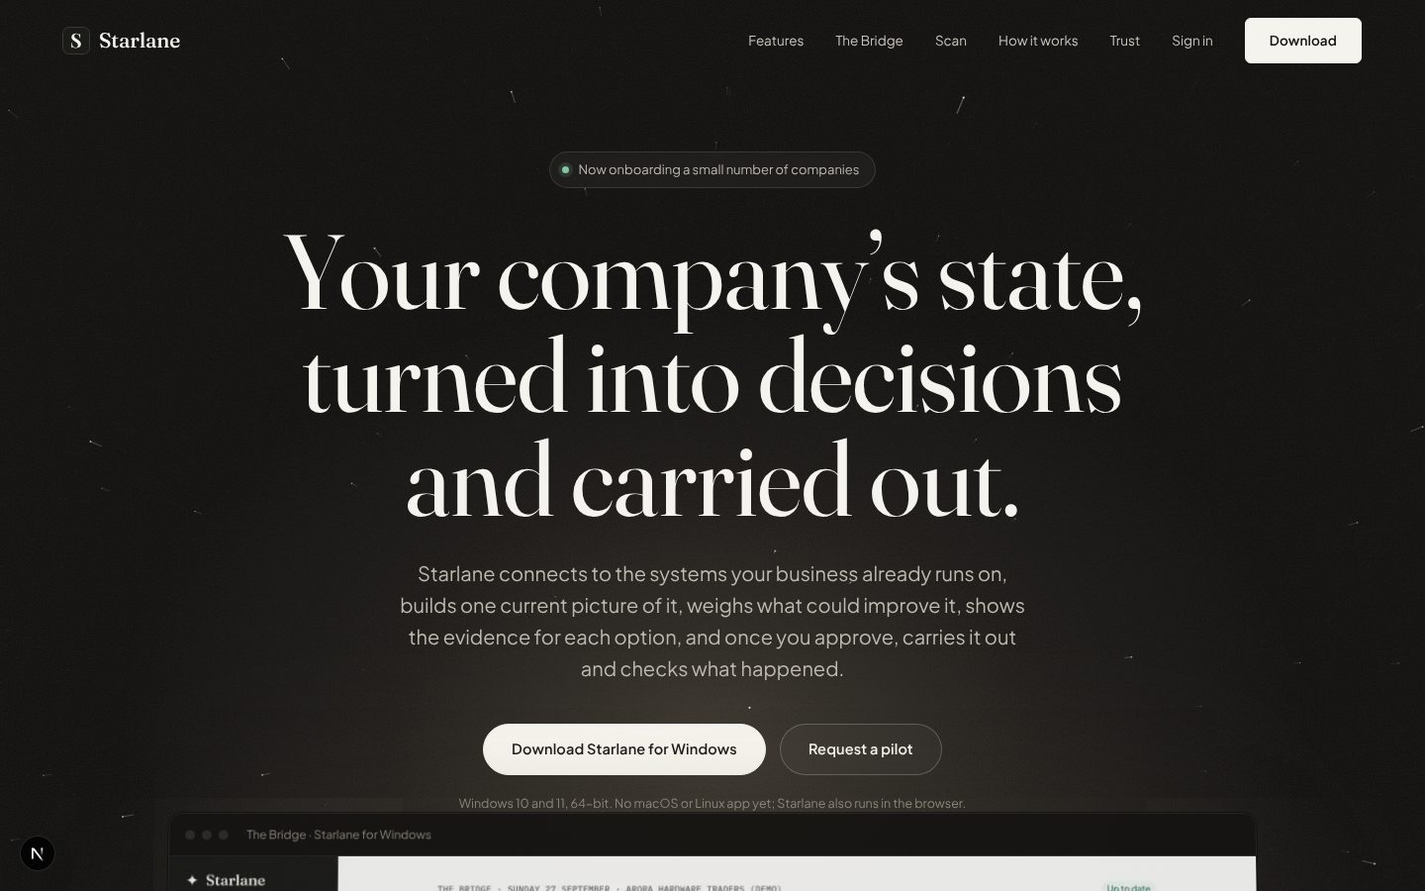
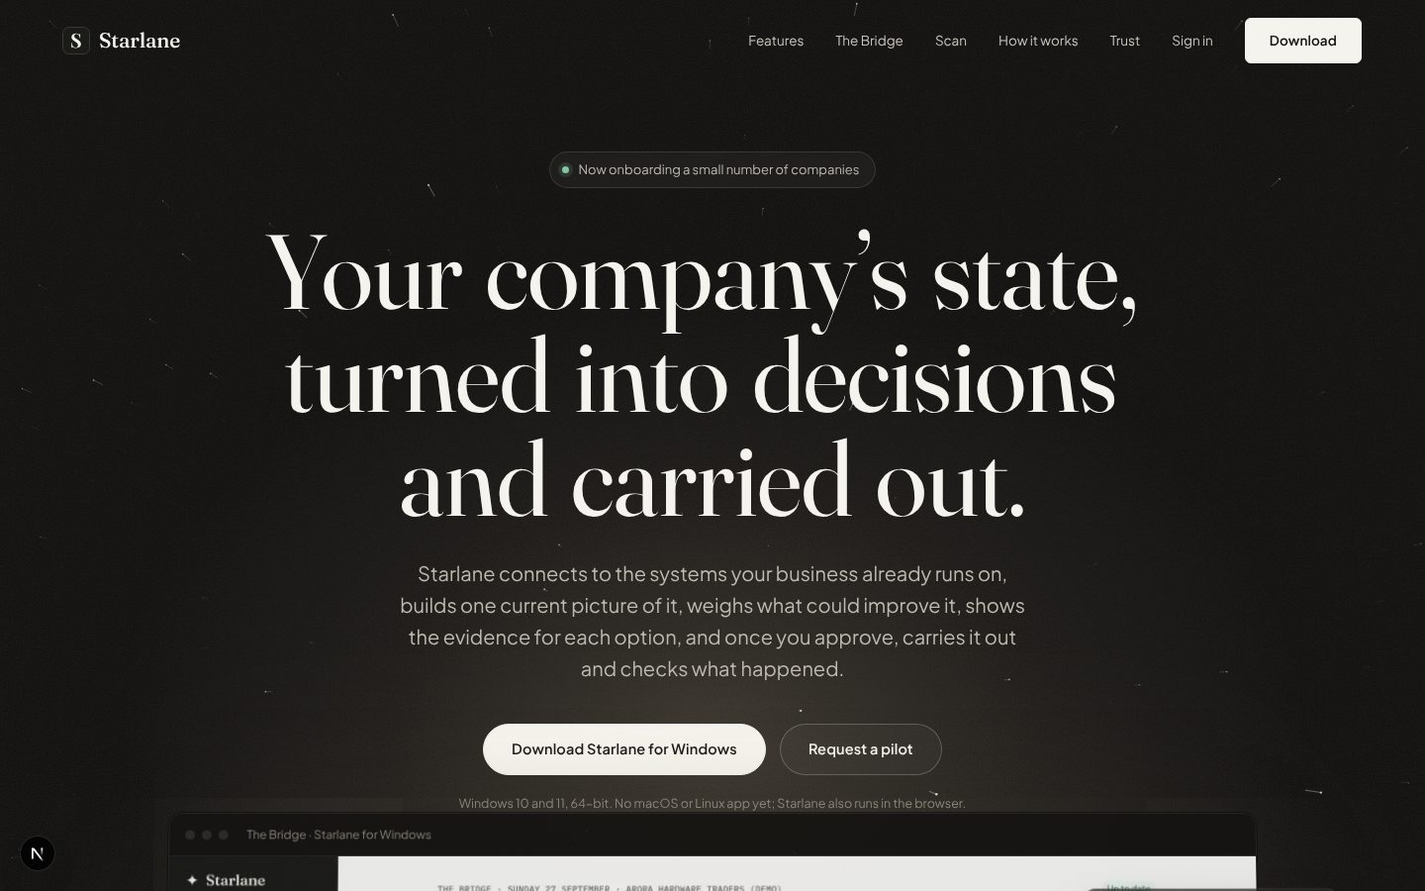
Landing: floating decision cards, word-by-word headline, business graph, FAQ
Adds glass cards over the hero screenshot (a decision waiting, a Watch alert,
an outcome checked against the books), a headline that rises in word by word,
a closing question that inks in as it scrolls, a 'one picture' section that
draws the demo company's books as an animated graph, a pointer spotlight on
the cards, and a questions section answered from existing product copy.

Claude-Session: https://claude.ai/code/session_01JbjFXTHGns6nadKYWs8caj

diff --git a/app/home.css b/app/home.css
@@ -109,7 +109,7 @@
   margin: 0 auto; max-width: 1180px; border-radius: 14px; overflow: hidden; background: #0b0b0a;
   border: 1px solid #ffffff1c;
   box-shadow: 0 0 0 1px #00000080, 0 60px 140px -40px #000, 0 0 220px -60px #f4dcb555;
-  transform-origin: 50% 0%;
+  transform-origin: 50% 0%; position: relative; z-index: 1;
 }
 .slh-shot-bar { display: flex; align-items: center; gap: 7px; padding: 12px 16px; border-bottom: 1px solid #ffffff12; background: #141311; }
 .slh-shot-bar span { width: 10px; height: 10px; border-radius: 50%; background: #2e2c29; }
@@ -268,6 +268,121 @@
 .sl-home.sl-js .slh-statement-lines [data-reveal]:nth-child(3) { transition-delay: .16s; }
 .sl-home.sl-js .slh-bento > :nth-child(3n+2), .sl-home.sl-js .slh-controls > :nth-child(2n) { transition-delay: .07s; }
 .sl-home.sl-js .slh-bento > :nth-child(3n), .sl-home.sl-js .slh-controls > :nth-child(3n) { transition-delay: .14s; }
+
+
+/* ── Second pass: motion and depth ────────────────────────────── */
+/* Headline: words rise out of a blur, one after another. */
+.slh-words span { display: inline-block; margin-right: 0.22em; animation: slh-word 1.1s var(--sl-ease) both; }
+.slh-words span:last-child { margin-right: 0; }
+@keyframes slh-word { from { opacity: 0; transform: translateY(0.32em); filter: blur(10px); } to { opacity: 1; transform: none; filter: none; } }
+.slh-hero .slh-pill, .slh-hero .slh-lede, .slh-hero .slh-ctas, .slh-hero .slh-fine { animation: slh-fade 1s var(--sl-ease) both; }
+.slh-hero .slh-lede { animation-delay: .7s; } .slh-hero .slh-ctas { animation-delay: .85s; } .slh-hero .slh-fine { animation-delay: 1s; }
+@keyframes slh-fade { from { opacity: 0; transform: translateY(12px); } to { opacity: 1; transform: none; } }
+
+/* Statement: the closing question inks in word by word as it scrolls past. */
+.slh-scrub { display: inline-block; margin-right: 0.24em; }
+@supports (animation-timeline: view()) {
+  .sl-home .slh-scrub { animation: slh-ink linear both; animation-timeline: view(); animation-range: cover 12% cover 42%; }
+}
+@keyframes slh-ink { from { color: var(--sl-line-2); } to { color: var(--sl-ink); } }
+
+/* Hero: glass cards floating over the screenshot. */
+.slh-shot-wrap { position: relative; }
+.slh-cards { position: absolute; inset: 0; z-index: 3; transform: translateZ(200px); pointer-events: none; max-width: 1300px; margin: 0 auto; }
+.slh-card {
+  position: absolute; width: 290px; padding: 14px 16px; border-radius: 14px;
+  background: rgba(24, 23, 21, 0.72); border: 1px solid #ffffff1f;
+  backdrop-filter: blur(18px) saturate(150%); -webkit-backdrop-filter: blur(18px) saturate(150%);
+  box-shadow: 0 30px 60px -20px #000000c0, inset 0 1px 0 #ffffff14; color: #F5F3EE;
+  animation: slh-card-in 1.2s var(--sl-ease) both, slh-bob 7s ease-in-out infinite;
+}
+.slh-card p { margin: 0; }
+.slh-card-k { display: flex; align-items: center; gap: 8px; font-size: 11px; letter-spacing: .1em; text-transform: uppercase; color: #8E8A82; }
+.slh-card-k i { width: 7px; height: 7px; border-radius: 50%; }
+.slh-card-k i.warn { background: #D9A85B; box-shadow: 0 0 10px #D9A85B; }
+.slh-card-k i.bad { background: #E07A6E; box-shadow: 0 0 10px #E07A6E; }
+.slh-card-k i.ok { background: #86C3A0; box-shadow: 0 0 10px #86C3A0; }
+.slh-card-t { font-family: var(--sl-serif); font-size: 17px; line-height: 1.25; margin-top: 8px !important; }
+.slh-card-s { font-size: 12px; color: #BEBAB1; margin-top: 4px !important; }
+.slh-card-row { display: flex; gap: 8px; margin-top: 12px; }
+.slh-card-btn { font-size: 12px; font-weight: 600; padding: 6px 14px; border-radius: 999px; background: #F5F3EE; color: #0F0E0D; }
+.slh-card-ghost { font-size: 12px; padding: 6px 12px; border-radius: 999px; border: 1px solid #ffffff26; color: #BEBAB1; }
+.slh-card-a { left: -10px; top: 22%; animation-delay: 1.1s, 1.1s; }
+.slh-card-b { right: -14px; top: 9%; width: 260px; animation-delay: 1.35s, 2.4s; }
+.slh-card-c { right: 3%; bottom: 14%; animation-delay: 1.6s, 3.6s; }
+@keyframes slh-card-in { from { opacity: 0; transform: translateY(24px) scale(.96); filter: blur(6px); } to { opacity: 1; transform: none; filter: none; } }
+@keyframes slh-bob { 0%, 100% { translate: 0 0; } 50% { translate: 0 -8px; } }
+
+/* One picture: the business graph. */
+.slh-graph { background: radial-gradient(60% 70% at 50% 60%, #1b1814 0%, #0F0E0D 70%); }
+.slg { position: relative; margin-top: 8px; border: 1px solid #ffffff10; border-radius: 20px; padding: clamp(12px, 2vw, 28px); background:
+  radial-gradient(circle at 20% 30%, #ffffff10 1px, transparent 1.5px) 0 0 / 46px 46px,
+  radial-gradient(circle at 70% 80%, #ffffff0b 1px, transparent 1.5px) 0 0 / 71px 71px, #0d0c0b; overflow: hidden; }
+.slg-svg { display: block; width: 100%; height: auto; overflow: visible; }
+.slg-orbit { fill: none; stroke: #ffffff0f; stroke-dasharray: 2 6; }
+.slg-edge { fill: none; stroke: #ffffff26; stroke-width: 1.2; }
+.slg-edge-dep { stroke-dasharray: 3 5; stroke: #ffffff2e; }
+.slg-flow { fill: none; stroke-width: 2.2; stroke-linecap: round; stroke-dasharray: 10 240; animation: slg-flow 3.6s linear infinite; }
+.slg-flow-in { stroke: #f4dcb5; filter: drop-shadow(0 0 4px #f4dcb5); }
+.slg-flow-out { stroke: #F5F3EE; opacity: .6; animation-duration: 4.4s; }
+@keyframes slg-flow { from { stroke-dashoffset: 250; } to { stroke-dashoffset: 0; } }
+.slg-core-ring { fill: none; stroke: #f4dcb566; stroke-width: 1; animation: slg-breathe 4s ease-in-out infinite; transform-box: fill-box; transform-origin: center; }
+.slg-core-dot { fill: #F5F3EE; }
+.slg-core-t { font-family: var(--sl-serif); font-size: 12.5px; fill: #0F0E0D; }
+.slg-core-s { font-size: 8.5px; fill: #46443F; letter-spacing: .08em; text-transform: uppercase; }
+@keyframes slg-breathe { 50% { transform: scale(1.12); opacity: .4; } }
+.slg-t { font-family: var(--sl-serif); font-size: 16px; fill: #F5F3EE; }
+.slg-sub { font-family: var(--sl-mono); font-size: 11px; fill: #8E8A82; }
+.slg-dot { fill: #F5F3EE; stroke: #0d0c0b; stroke-width: 3; }
+.slg-source .slg-dot { fill: #f4dcb5; }
+.slg-supplier .slg-dot, .slg-signal .slg-dot { fill: #0d0c0b; stroke: #BEBAB1; stroke-width: 1.5; }
+.slg-warn .slg-dot { fill: #D9A85B; }
+.slg-bad .slg-dot { fill: #E07A6E; }
+.slg-pulse { fill: #E07A6E; opacity: .35; animation: slg-pulse 2.4s ease-out infinite; transform-box: fill-box; transform-origin: center; }
+@keyframes slg-pulse { from { transform: scale(.5); opacity: .55; } to { transform: scale(2.2); opacity: 0; } }
+.slg-swipe { display: none; margin: 4px 0 0; font-size: 12px; color: #8E8A82; position: sticky; left: 0; }
+.slg-legend { position: sticky; left: 0; list-style: none; margin: 8px 0 0; padding: 0; display: flex; flex-wrap: wrap; gap: 8px 22px; font-size: 12px; color: #8E8A82; }
+.slg-legend li { display: inline-flex; align-items: center; gap: 8px; }
+.slg-legend i { width: 8px; height: 8px; border-radius: 50%; }
+.slg-legend i.src { background: #f4dcb5; } .slg-legend i.warn { background: #D9A85B; } .slg-legend i.bad { background: #E07A6E; }
+.slg-legend i.dep { border: 1.5px solid #BEBAB1; }
+
+/* Pointer spotlight on cards. */
+.slh-b-link, .slh-c, .slh-control { position: relative; }
+.slh-b-link::after, .slh-c::after, .slh-control::after {
+  content: ""; position: absolute; inset: 0; border-radius: inherit; pointer-events: none; opacity: 0; transition: opacity .3s ease;
+  background: radial-gradient(420px circle at var(--mx, 50%) var(--my, 50%), #0f0e0d0d, transparent 45%);
+}
+.slh-control::after { background: radial-gradient(360px circle at var(--mx, 50%) var(--my, 50%), #f4dcb51f, transparent 50%); }
+.slh-b-link:hover::after, .slh-c:hover::after, .slh-control:hover::after { opacity: 1; }
+.slh-control { transition: border-color .25s ease; }
+.slh-control:hover { border-color: #ffffff2e; }
+
+/* Questions. */
+.slh-faq-grid { display: grid; grid-template-columns: minmax(0, 0.8fr) minmax(0, 1.2fr); gap: clamp(32px, 6vw, 96px); align-items: start; }
+.slh-faq-list { border-top: 1px solid var(--sl-line); }
+.slh-qa { border-bottom: 1px solid var(--sl-line); }
+.slh-qa summary { list-style: none; cursor: pointer; display: flex; justify-content: space-between; align-items: center; gap: 24px; padding: 22px 0; font-family: var(--sl-serif); font-size: clamp(18px, 1.6vw, 22px); color: var(--sl-ink); min-height: 44px; }
+.slh-qa summary::-webkit-details-marker { display: none; }
+.slh-qa summary i { position: relative; width: 14px; height: 14px; flex-shrink: 0; }
+.slh-qa summary i::before, .slh-qa summary i::after { content: ""; position: absolute; left: 0; right: 0; top: 50%; height: 1.5px; margin-top: -0.75px; background: var(--sl-ink); transition: transform .35s var(--sl-ease); }
+.slh-qa summary i::after { transform: rotate(90deg); }
+.slh-qa[open] summary i::after { transform: rotate(0deg); }
+.slh-qa .sl-p { margin: -6px 0 24px; max-width: 640px; animation: slh-fade .5s var(--sl-ease); }
+
+@media (max-width: 1080px) {
+  .slh-card-a { left: 2%; } .slh-card-b { right: 2%; }
+}
+@media (max-width: 860px) {
+  .slh-cards { display: none; }
+  .slh-faq-grid { grid-template-columns: minmax(0, 1fr); }
+  .slg { margin-left: calc(var(--sl-gutter) * -1); margin-right: calc(var(--sl-gutter) * -1); border-radius: 0; border-left: 0; border-right: 0; overflow-x: auto; }
+  .slg-svg { min-width: 760px; }
+  .slg-swipe { display: block; }
+}
+@media (prefers-reduced-motion: reduce) {
+  .sl-home .slh-scrub { animation: none !important; color: var(--sl-ink); }
+}
 
 /* ── Responsive ───────────────────────────────────────────────── */
 @media (max-width: 1080px) {

diff --git a/app/page.tsx b/app/page.tsx
@@ -10,6 +10,8 @@ import { AskDemo } from "@/components/marketing/landing/AskDemo";
 import { HowItThinks } from "@/components/marketing/landing/HowItThinks";
 import { StarField } from "@/components/marketing/landing/StarField";
 import { Reveal } from "@/components/marketing/landing/Reveal";
+import { HeroCards } from "@/components/marketing/landing/HeroCards";
+import { BusinessGraph } from "@/components/marketing/landing/BusinessGraph";
 import { BridgeViz, WatchViz, MissionsViz, SimulateViz, MemoryViz, PreparedViz } from "@/components/marketing/landing/SurfaceVisuals";
 
 // Starlane — public landing. A dark, cinematic frame (hero, decision, Scan,
@@ -74,6 +76,18 @@ const VIZ: Record<string, { el: React.ReactNode; span: string }> = {
   Prepared: { el: <PreparedViz />, span: "slh-b-full" },
 };
 
+const HEADLINE = "Your company’s state, turned into decisions and carried out.".split(" ");
+const SCRUB = "None of them answers the question an owner faces every morning: what should we do today, and why?".split(" ");
+
+const FAQ = [
+  { q: "Will Starlane message my customers on its own?", a: "No. External messages are off by default and stay off until they are explicitly enabled. Even then, every reminder waits for a person to approve it, the text is shown in full before you do, and each approved action runs at most once." },
+  { q: "What does it need from TallyPrime?", a: "A small bridge program on the computer that runs Tally reads vouchers and stock through Tally’s local export port and sends them to Starlane. It is read-only, paired with a one-time code, and you can revoke it from Starlane at any time." },
+  { q: "We don’t use Tally. Can we still use Starlane?", a: "Yes, if your system can export invoices as CSV or Excel. Identical files are recognised and never imported twice. Connections to QuickBooks, Zoho Books, Xero and others through their official APIs are not built yet, so tell us what you use when you apply." },
+  { q: "Can it change my books?", a: "No. Starlane never marks a payment received, changes an amount or deletes records on its own, and Scan cannot change records at all. It reads your books and checks them again to see what actually happened after an action." },
+  { q: "Is there a Mac app?", a: "Not yet. The desktop app runs on Windows 10 and 11, 64-bit, and Starlane also runs in the browser." },
+  { q: "How do we get started?", a: "Starlane is onboarding a small number of companies at a time, starting with businesses that run on TallyPrime or can export their books. Request a pilot and you will see straight away whether your systems are supported." },
+];
+
 const SOURCES = ["TallyPrime", "CSV exports", "Excel workbooks", "Bank statements", "ECB reference rates", "USGS earthquake feed", "WhatsApp drafts, sent only on approval", "Purchase history", "Stock and products"];
 
 const PROMISES = [
@@ -105,7 +119,9 @@ export default function LandingPage() {
           </div>
           <div className="sl-wrap slh-hero-copy">
             <span className="slh-pill"><i />Now onboarding a small number of companies</span>
-            <h1 className="slh-display">Your company’s state, turned into decisions and carried out.</h1>
+            <h1 className="slh-display slh-words" aria-label="Your company’s state, turned into decisions and carried out.">
+              {HEADLINE.map((w, i) => <span key={i} aria-hidden style={{ animationDelay: `${0.12 + i * 0.07}s` }}>{w}</span>)}
+            </h1>
             <p className="slh-lede">
               Starlane connects to the systems your business already runs on, builds one current picture of it, weighs
               what could improve it, shows the evidence for each option, and once you approve, carries it out and checks
@@ -123,6 +139,7 @@ export default function LandingPage() {
               <Image src="/product/bridge-desktop.webp" width={2880} height={1800} priority sizes="(max-width: 767px) 100vw, 1180px"
                 alt="The Bridge in the Starlane desktop app for a fictional demo company: what it is owed and how much is overdue, two reminders waiting for approval, Watch alerts for invoices slipping past 30 and 90 days, two collection missions with progress, receivables by overdue band and who owes the most." />
             </figure>
+            <HeroCards />
             <p className="slh-shot-cap">Real product view, on a fictional demo company’s books. Every figure opens to the invoices behind it.</p>
           </div>
         </header>
@@ -146,8 +163,23 @@ export default function LandingPage() {
               <p data-reveal><span>Dashboards</span> show what already happened.</p>
               <p data-reveal><span>Reports</span> arrive after it mattered.</p>
               <p data-reveal><span>Automations</span> do exactly what they were told, whether or not it still makes sense.</p>
-              <p data-reveal className="slh-statement-last">None of them answers the question an owner faces every morning: what should we do today, and why?</p>
+              <p className="slh-statement-last">{SCRUB.map((w, i) => <span key={i} className="slh-scrub">{w}</span>)}</p>
             </div>
+          </div>
+        </section>
+
+        {/* 3b — One picture of the business */}
+        <section className="sl-dark slh-section slh-graph" aria-labelledby="graph-h">
+          <div className="sl-wrap">
+            <div className="sl-split-head" data-reveal>
+              <div>
+                <p className="sl-eyebrow">One picture</p>
+                <h2 id="graph-h" className="slh-h2">Every row in your books becomes one living picture of the business.</h2>
+              </div>
+              <p className="sl-p">Vouchers become invoices, payments and stock movements. Customers, suppliers and products are linked by what actually happened between them, and every row keeps where it came from.</p>
+            </div>
+            <div data-reveal><BusinessGraph /></div>
+            <p className="sl-product-caption">Illustration on the fictional demo company from the product view above.</p>
           </div>
         </section>
 
@@ -267,6 +299,24 @@ export default function LandingPage() {
             <div className="slh-controls">
               {CONTROLS.map((r) => (
                 <div key={r.l} className="slh-control" data-reveal><h3 className="sl-h3">{r.l}</h3><p className="sl-p">{r.d}</p></div>
+              ))}
+            </div>
+          </div>
+        </section>
+
+        {/* 9b — Questions */}
+        <section id="faq" className="sl-section slh-faq" aria-labelledby="faq-h">
+          <div className="sl-wrap slh-faq-grid">
+            <div data-reveal>
+              <p className="sl-eyebrow">Questions</p>
+              <h2 id="faq-h" className="slh-h2">What owners ask before they connect their books.</h2>
+            </div>
+            <div className="slh-faq-list" data-reveal>
+              {FAQ.map((f) => (
+                <details key={f.q} className="slh-qa">
+                  <summary><span>{f.q}</span><i aria-hidden /></summary>
+                  <p className="sl-p">{f.a}</p>
+                </details>
               ))}
             </div>
           </div>

diff --git a/components/marketing/landing/BusinessGraph.tsx b/components/marketing/landing/BusinessGraph.tsx
@@ -1,0 +1,86 @@
+// "One picture of your business": the demo company's books drawn as a graph.
+// Sources feed the picture from the left; customers it is owed by sit on the
+// right, coloured by how overdue they are; the supplier and stock it depends
+// on sit above and below. Data visibly flows in along the source edges.
+// Same fictional demo company and figures as the product screenshot.
+
+type Node = { id: string; x: number; y: number; label: string; sub?: string; kind: "core" | "source" | "customer" | "supplier" | "signal"; tone?: "ok" | "warn" | "bad" };
+
+const NODES: Node[] = [
+  { id: "core", x: 500, y: 290, label: "Your business", sub: "Arora Hardware Traders · demo", kind: "core" },
+  { id: "tally", x: 120, y: 150, label: "TallyPrime", sub: "vouchers, stock", kind: "source" },
+  { id: "bank", x: 95, y: 300, label: "Bank statement", sub: "movements", kind: "source" },
+  { id: "csv", x: 140, y: 450, label: "CSV / Excel", sub: "invoice exports", kind: "source" },
+  { id: "mehta", x: 820, y: 105, label: "Mehta Hardware", sub: "₹1,28,500 · 45 days", kind: "customer", tone: "bad" },
+  { id: "sharma", x: 895, y: 225, label: "Sharma Builders", sub: "₹86,000 · 38 days", kind: "customer", tone: "bad" },
+  { id: "rao", x: 900, y: 355, label: "Rao Steel", sub: "₹74,000 · 19 days", kind: "customer", tone: "warn" },
+  { id: "joshi", x: 830, y: 470, label: "Joshi Tiles", sub: "₹23,500 · 96 days", kind: "customer", tone: "bad" },
+  { id: "bansal", x: 690, y: 525, label: "Bansal Paints", sub: "₹52,000 · 6 days", kind: "customer", tone: "warn" },
+  { id: "metro", x: 430, y: 70, label: "Metro Wholesale", sub: "supplier", kind: "supplier" },
+  { id: "stock", x: 330, y: 520, label: "Products and stock", sub: "coverage by item", kind: "supplier" },
+  { id: "ecb", x: 640, y: 40, label: "ECB rates", sub: "public feed", kind: "signal" },
+];
+
+const EDGES: Array<[string, string, "in" | "out" | "dep"]> = [
+  ["tally", "core", "in"], ["bank", "core", "in"], ["csv", "core", "in"],
+  ["core", "mehta", "out"], ["core", "sharma", "out"], ["core", "rao", "out"], ["core", "joshi", "out"], ["core", "bansal", "out"],
+  ["core", "metro", "dep"], ["metro", "stock", "dep"], ["core", "stock", "dep"], ["ecb", "metro", "dep"],
+];
+
+const at = (id: string) => NODES.find((n) => n.id === id)!;
+
+export function BusinessGraph() {
+  return (
+    <div className="slg" role="img" aria-label="Illustration: the demo company's books drawn as one picture. TallyPrime, bank statements and CSV exports feed it; five customers who owe it money are coloured by how overdue they are; a supplier, its stock and an exchange-rate feed it depends on are linked in.">
+      <svg viewBox="-70 0 1150 580" className="slg-svg" aria-hidden>
+        <defs>
+          <radialGradient id="slg-core" cx="50%" cy="50%" r="50%">
+            <stop offset="0%" stopColor="#f4dcb5" stopOpacity=".55" />
+            <stop offset="100%" stopColor="#f4dcb5" stopOpacity="0" />
+          </radialGradient>
+        </defs>
+        <circle cx="500" cy="290" r="150" fill="url(#slg-core)" />
+        <circle cx="500" cy="290" r="210" className="slg-orbit" />
+        <circle cx="500" cy="290" r="300" className="slg-orbit" />
+        {EDGES.map(([a, b, k], i) => {
+          const A = at(a), B = at(b);
+          const mx = (A.x + B.x) / 2, my = (A.y + B.y) / 2 - (k === "dep" ? 0 : 24);
+          const d = `M${A.x} ${A.y} Q${mx} ${my} ${B.x} ${B.y}`;
+          return (
+            <g key={i}>
+              <path d={d} className={`slg-edge slg-edge-${k}`} />
+              {k !== "dep" && <path d={d} className={`slg-flow slg-flow-${k}`} style={{ animationDelay: `${(i % 5) * -0.7}s` }} />}
+            </g>
+          );
+        })}
+        {NODES.map((n) => (
+          <g key={n.id} transform={`translate(${n.x} ${n.y})`} className={`slg-node slg-${n.kind}${n.tone ? ` slg-${n.tone}` : ""}`}>
+            {n.kind === "core" ? (
+              <>
+                <circle r="60" className="slg-core-ring" />
+                <circle r="48" className="slg-core-dot" />
+                <text y="-2" textAnchor="middle" className="slg-core-t">{n.label}</text>
+                <text y="16" textAnchor="middle" className="slg-core-s">live picture</text>
+                <text y="84" textAnchor="middle" className="slg-sub">{n.sub}</text>
+              </>
+            ) : (
+              <>
+                {n.tone === "bad" && <circle r="13" className="slg-pulse" />}
+                <circle r="7" className="slg-dot" />
+                <text x={n.x > 500 ? 16 : -16} y="-2" textAnchor={n.x > 500 ? "start" : "end"} className="slg-t">{n.label}</text>
+                {n.sub && <text x={n.x > 500 ? 16 : -16} y="15" textAnchor={n.x > 500 ? "start" : "end"} className="slg-sub">{n.sub}</text>}
+              </>
+            )}
+          </g>
+        ))}
+      </svg>
+      <p className="slg-swipe" aria-hidden>Swipe to see the whole picture</p>
+      <ul className="slg-legend" aria-hidden>
+        <li><i className="src" />Sources</li>
+        <li><i className="warn" />Overdue under 30 days</li>
+        <li><i className="bad" />Overdue 30 days or more</li>
+        <li><i className="dep" />Depends on</li>
+      </ul>
+    </div>
+  );
+}

diff --git a/components/marketing/landing/Reveal.tsx b/components/marketing/landing/Reveal.tsx
@@ -4,11 +4,15 @@ import { useEffect } from "react";
 // Scroll reveal for the landing page. Everything marked data-reveal is fully
 // visible without JavaScript; only once this runs does the page opt in (the
 // "sl-js" class) to fading each block up as it enters the viewport. Skipped
-// entirely with prefers-reduced-motion.
+// entirely with prefers-reduced-motion. Also drives the pointer spotlight on
+// the landing cards.
 export function Reveal() {
   useEffect(() => {
     const root = document.querySelector<HTMLElement>(".sl-home");
-    if (!root || typeof IntersectionObserver === "undefined") return;
+    if (!root) return;
+    // On narrow screens the business graph scrolls sideways; start it centred.
+    root.querySelectorAll<HTMLElement>(".slg").forEach((g) => { g.scrollLeft = (g.scrollWidth - g.clientWidth) / 2; });
+    if (typeof IntersectionObserver === "undefined") return;
     if (window.matchMedia("(prefers-reduced-motion: reduce)").matches) return;
     const els = Array.from(root.querySelectorAll<HTMLElement>("[data-reveal]"));
     const io = new IntersectionObserver((entries) => {
@@ -22,7 +26,16 @@ export function Reveal() {
       else io.observe(el);
     }
     root.classList.add("sl-js");
-    return () => io.disconnect();
+    // Cards light up under the pointer.
+    const spot = (e: PointerEvent) => {
+      const card = (e.target as Element | null)?.closest<HTMLElement>(".slh-b-link, .slh-c, .slh-control");
+      if (!card) return;
+      const r = card.getBoundingClientRect();
+      card.style.setProperty("--mx", `${e.clientX - r.left}px`);
+      card.style.setProperty("--my", `${e.clientY - r.top}px`);
+    };
+    root.addEventListener("pointermove", spot, { passive: true });
+    return () => { io.disconnect(); root.removeEventListener("pointermove", spot); };
   }, []);
   return null;
 }

diff --git a/components/marketing/landing/HeroCards.tsx b/components/marketing/landing/HeroCards.tsx
@@ -1,0 +1,28 @@
+// Glass cards that float over the hero screenshot: the three moments the
+// product is built around — a decision waiting for a person, a problem raised,
+// and an outcome checked against the books. Same fictional demo company and
+// figures as the screenshot underneath. Decorative: the screenshot's alt text
+// and the page copy already say all of this.
+
+export function HeroCards() {
+  return (
+    <div className="slh-cards" aria-hidden>
+      <div className="slh-card slh-card-a">
+        <p className="slh-card-k"><i className="warn" />Needs you</p>
+        <p className="slh-card-t">Firm reminder to Mehta Hardware</p>
+        <p className="slh-card-s"><span className="sl-num">₹1,28,500</span> · 45 days overdue · WhatsApp</p>
+        <div className="slh-card-row"><span className="slh-card-btn">Approve</span><span className="slh-card-ghost">Read message</span></div>
+      </div>
+      <div className="slh-card slh-card-b">
+        <p className="slh-card-k"><i className="bad" />Watch</p>
+        <p className="slh-card-t">Joshi Tiles · S/152 is past 90 days</p>
+        <p className="slh-card-s">Raised once. Closes when it’s paid.</p>
+      </div>
+      <div className="slh-card slh-card-c">
+        <p className="slh-card-k"><i className="ok" />Checked against your books</p>
+        <p className="slh-card-t"><span className="sl-num">₹40,000</span> received from Mehta Hardware</p>
+        <p className="slh-card-s">Mission progress: ₹40,000 of ₹1,20,000</p>
+      </div>
+    </div>
+  );
+}
